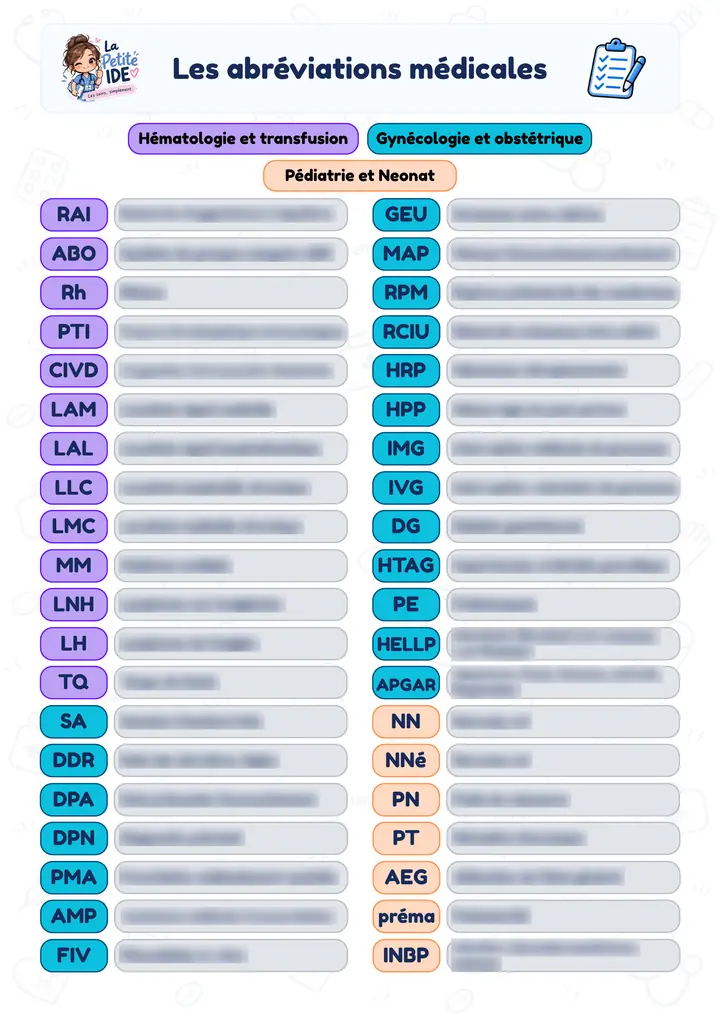
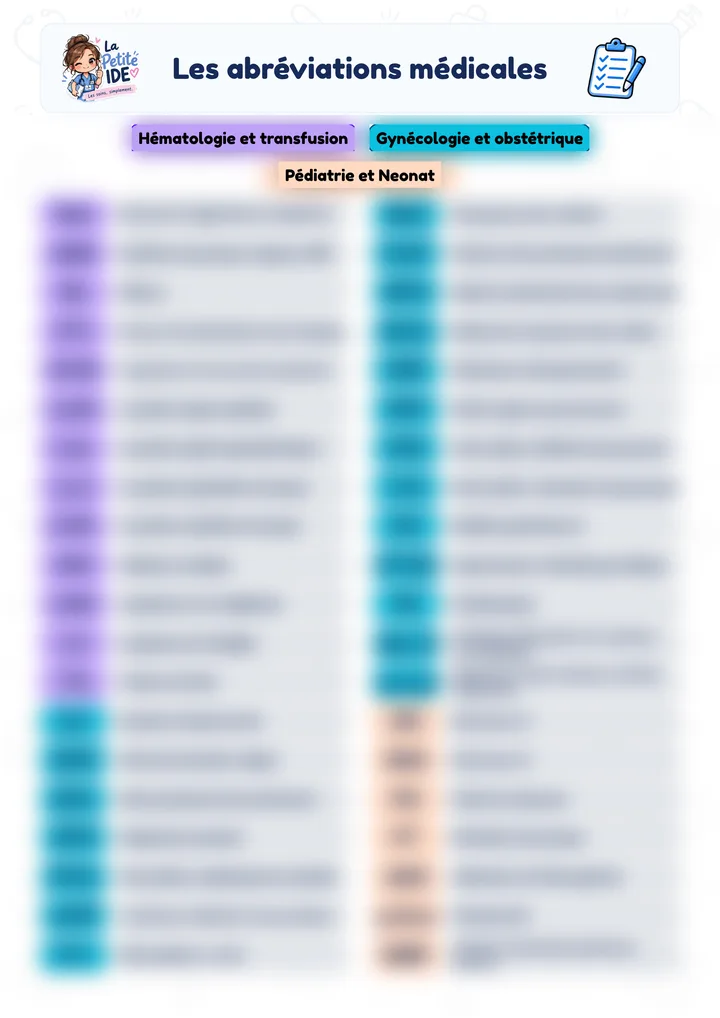
Abréviations : prix 3,99/6,99 €, aperçus floutés (spécialités seules après la 1re page), nouvel éventail, visuels papier, « Voir aussi » avec l'image de la page de liens ; corrige l'ajout depuis « Tu aimeras aussi » dans le panier
Claude-Session: https://claude.ai/code/session_01AjM4nKq76yscsc7unTkEs5

Changed region(s): [[0.0306, 0.0914, 0.9472, 0.9745]]

diff --git a/src/app/(site)/[slug]/page.tsx b/src/app/(site)/[slug]/page.tsx
@@ -117,11 +117,15 @@ export default async function PackPage({ params }: { params: Params }) {
           {pack.images ? (
             // Carrousel : la vraie photo des fiches papier d'abord (si le papier est en vente), puis le visuel du pack et l'aperçu.
             <PackGallery
-              slides={[
-                ...paperPhotos.map((p) => ({ ...p, label: pack.print?.label ?? "Fiches de poche" })),
-                ...(pack.revision?.photos ?? []).map((p) => ({ ...p, label: "Fiches de révision" })),
-                ...(pack.images.gallery ?? []),
-              ]}
+              slides={(() => {
+                const paper = [
+                  ...paperPhotos.map((p) => ({ ...p, label: pack.print?.label ?? "Fiches de poche" })),
+                  ...(pack.revision?.photos ?? []).map((p) => ({ ...p, label: "Fiches de révision" })),
+                ];
+                const gallery = pack.images.gallery ?? [];
+                // Visuels papier (et non photos) : le visuel de présentation reste en premier.
+                return pack.print?.photosAfterCover ? [...gallery.slice(0, 1), ...paper, ...gallery.slice(1)] : [...paper, ...gallery];
+              })()}
             />
           ) : (
             <PackCover icon={pack.icon} tone={pack.tone} />
@@ -287,7 +291,11 @@ export default async function PackPage({ params }: { params: Params }) {
             .map((p) => (
               <li key={p.slug}>
                 <Link href={`/${p.slug}`} className="see-also__card">
-                  {p.image ? (
+                  {getPack(p.slug)?.images?.bio ? (
+                    // Même visuel que sur la page de liens.
+                    // eslint-disable-next-line @next/next/no-img-element
+                    <img src={getPack(p.slug)!.images!.bio} alt="" width={800} height={800} loading="lazy" />
+                  ) : p.image ? (
                     // eslint-disable-next-line @next/next/no-img-element
                     <img src={p.image.src} alt="" width={p.image.width} height={p.image.height} loading="lazy" />
                   ) : null}

diff --git a/src/content/packs.ts b/src/content/packs.ts
@@ -87,6 +87,8 @@ export interface PrintEdition {
   label?: string;
   /** Explication courte (section « Et en papier ? » de la page de vente). */
   blurb?: string;
+  /** `true` : les photos papier viennent après le visuel de présentation dans le carrousel. */
+  photosAfterCover?: boolean;
 }
 
 export interface Pack {
@@ -257,7 +259,7 @@ export const packs: Pack[] = [
     tagline: "Plus de 400 abréviations classées par spécialité.",
     description:
       "Les abréviations médicales indispensables en stage, classées par spécialité : constantes, biologie, cardiologie, pneumologie, neurologie, urgences, organisation hospitalière…",
-    priceCents: 199,
+    priceCents: 399,
     icon: "book",
     tone: "blue",
     countWord: ["page", "pages"],
@@ -301,8 +303,13 @@ export const packs: Pack[] = [
     ],
     // Version papier A5 (activable dans /admin › Réglages).
     print: {
-      priceCents: 599,
+      priceCents: 699,
       label: "Version papier A5",
+      photosAfterCover: true,
+      photos: [
+        { src: "/img/packs/abreviations/papier-1.webp", width: 1200, height: 1200, alt: "Visuel de la fiche A5 plastifiée des abréviations médicales" },
+        { src: "/img/packs/abreviations/papier-2.webp", width: 1200, height: 1200, alt: "Visuel des fiches A5 plastifiées des abréviations médicales" },
+      ],
       specs: ["Format A5", "Plastifiée", "Cartonnée"],
       blurb: "Toutes les abréviations en format A5, cartonné et plastifié : solide, à garder dans ton sac de stage ou à afficher.",
     },

diff --git a/src/components/shop/CartView.tsx b/src/components/shop/CartView.tsx
@@ -63,7 +63,10 @@ export function SuggestionList({ items, onAdd }: { items: Suggestion[]; onAdd?: 
           <button
             type="button"
             className="btn btn--secondary btn--sm suggest__add"
-            onClick={() => onAdd?.(s, addToCart(s.line))}
+            onClick={() => {
+              const r = addToCart(s.line);
+              onAdd?.(s, r);
+            }}
           >
             + {formatPrice(s.cents)}
           </button>
